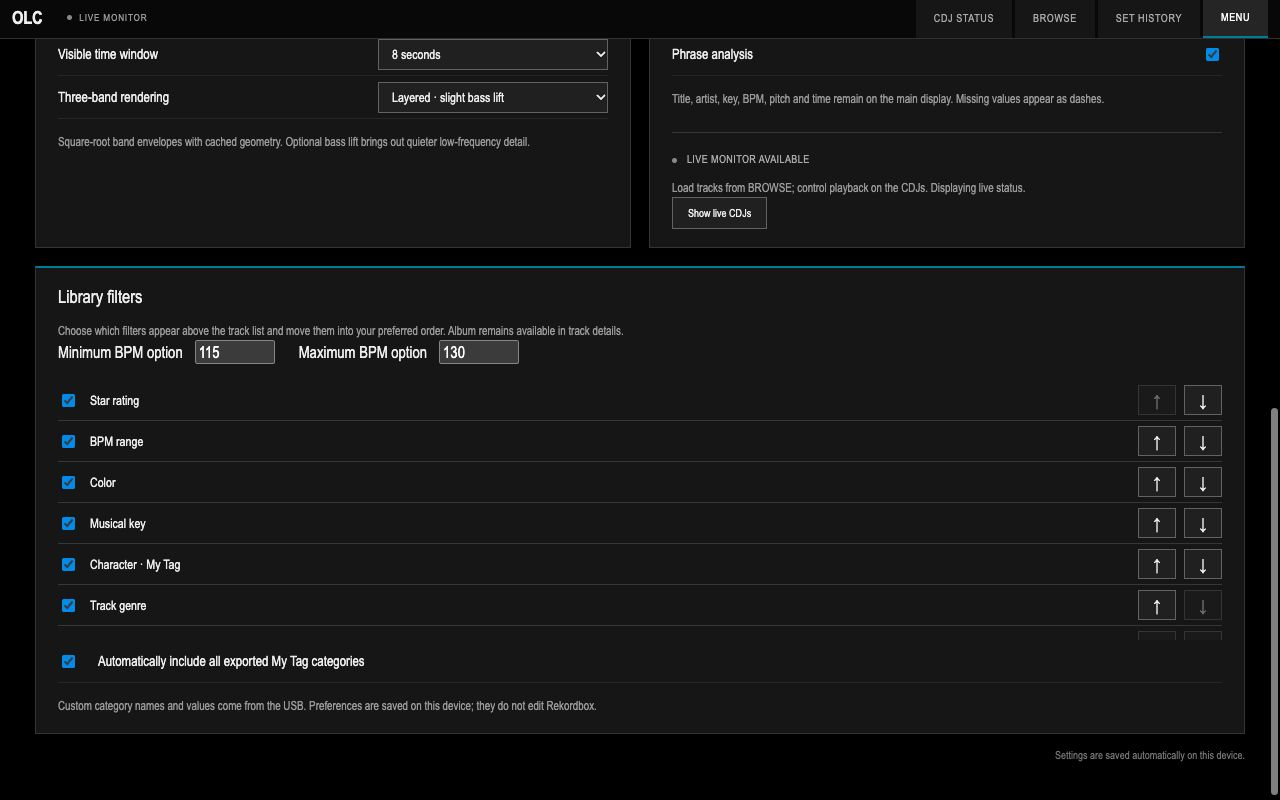
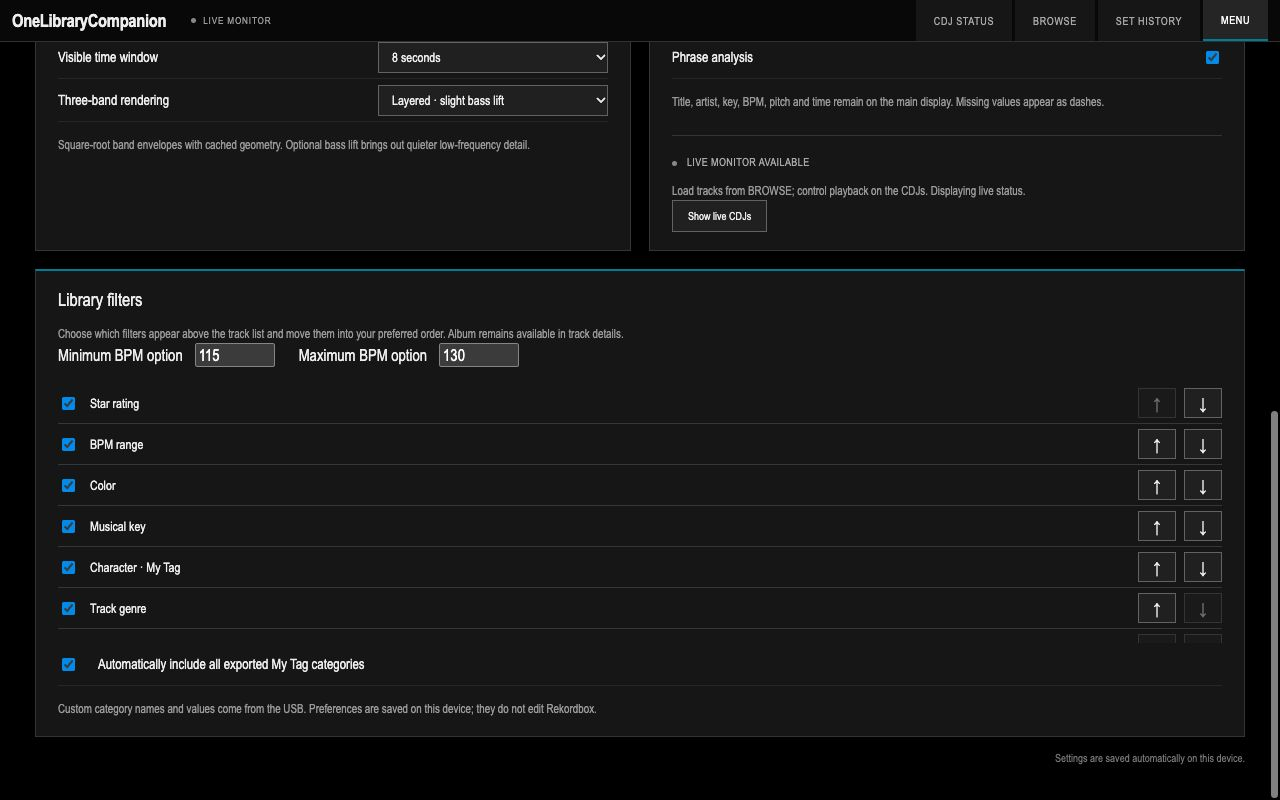
Show OneLibraryCompanion in shared navigation and refresh screenshots

diff --git a/source/ui/src/main.tsx b/source/ui/src/main.tsx
@@ -125,7 +125,7 @@ function App() {
       <div className="screen" style={{ transform: `scale(${scale})` }}>
         <nav className={page === "library" ? "browse-nav" : undefined}>
           <span className="brand" title="OneLibraryCompanion">
-            OLC
+            OneLibraryCompanion
           </span>
           <span className="connection">
             <i className="status-dot" />{" "}
